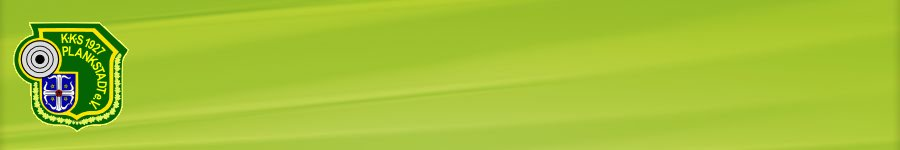
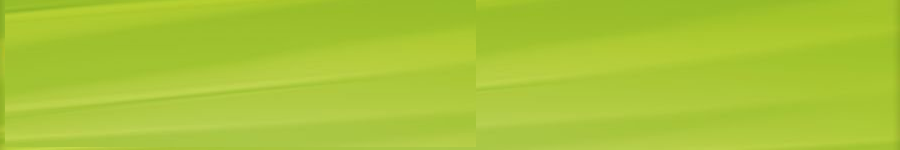
Fiddling CSS

Changed region(s): [[0.0, 0.0, 0.3733, 0.9333], [0.2489, 0.0, 0.5289, 0.1333]]

diff --git a/_includes/menu.html b/_includes/menu.html
@@ -1,16 +1,22 @@
-<ul>
+<!-- <ul>
 	<li><a href="oeffnungszeiten.html">Öffnungszeiten</a></li>
 	<li><a href="schiessstaende.html">Schiessstände</a></li>
 	<li><a href="verein.html">Verein</a></li>
 	<li><a href="termine.html">Termine</a></li>
 	<li><a href="antraege.html">Anträge und Formulare</a></li>
 </ul>
-
-
-
-
+ -->
+<ul>
+	<li>
+		<a href="#">Test 1</a>
+		<a href="#">Test 2</a>
+		<a href="#">Test 3</a>
+		<a href="#">Test 4</a>
+		<a href="#">Test 5</a>
+	</li>
+</ul>
 <!--
-	Neues?
+	Neues?Test 1
 	Schützenhaus
 		Öffnungszeiten
 		Dringendg (Wenn noch Akut)

diff --git a/_includes/header.html b/_includes/header.html
@@ -1,13 +1,13 @@
 <header class="site-header">
-
 	 <div class="wrapper">
 	 		<div id='site-header'>
-	 			<h1>KKS Plankstadt 1927 e.V.</h1>
-	 			<h2>Schützenverein mit Zuwachs</h2>
-	 		</div>
-	 	    <nav class="site-nav">
+	<!--  			<h1>KKS Plankstadt 1927 e.V.</h1>
+	 			<h2>Schützenverein mit Zuwachs</h2> -->
+        <div id="sitetitle">Demo Site 1</div>
+        <div id="catchphrase">Catchfrase underneath</div>
+	 		  <nav class="site-nav">
     			{% include menu.html %}
     		</nav>  
-    
+      </div>
   </div>
 </header>

diff --git a/_sass/_header.sass b/_sass/_header.sass
@@ -1,16 +1,18 @@
 header
+  margin-top: 0px
   #site-header
     background-image: url('/images/kksheader.png')
     background-repeat: no-repeat
     height: 150px
     h1
-      margin-left: 130px
-      margin-bottom: 0px
-      padding-top: 25px
+      
       font-size: 40px
+      
+
     h2
       margin-left: 130px
       margin-top: 0px
+      padding-top: 0px
       font-size: 25px
       line-heigt: 1
     nav

diff --git a/_sass/_base.sass b/_sass/_base.sass
@@ -7,12 +7,12 @@
   line-height: 1.09
   letter-spacing: -2px
 
-.huge, h1
+.huge
   font-size: 68px
   line-height: 1.05
   letter-spacing: -1px
 
-.large, h2
+.large
   font-size: 42px
   line-height: 1.14
 
@@ -92,6 +92,14 @@ body
   -webkit-text-size-adjust: 100%
 
 
+
+
+#allsite
+  display: inline-block
+  
+  width: 900px
+
+  
 
 
 

diff --git a/_layouts/default.html b/_layouts/default.html
@@ -1,20 +1,18 @@
 <!DOCTYPE html>
 <html>
-
+  
   {% include head.html %}
 
   <body>
-
+    <div id="allsite">
     {% include header.html %}
-
     <div class="page-content">
       <div class="wrapper">
         {{ content }}
       </div>
     </div>
-
     {% include footer.html %}
-
+    </div>
   </body>
 
 </html>
